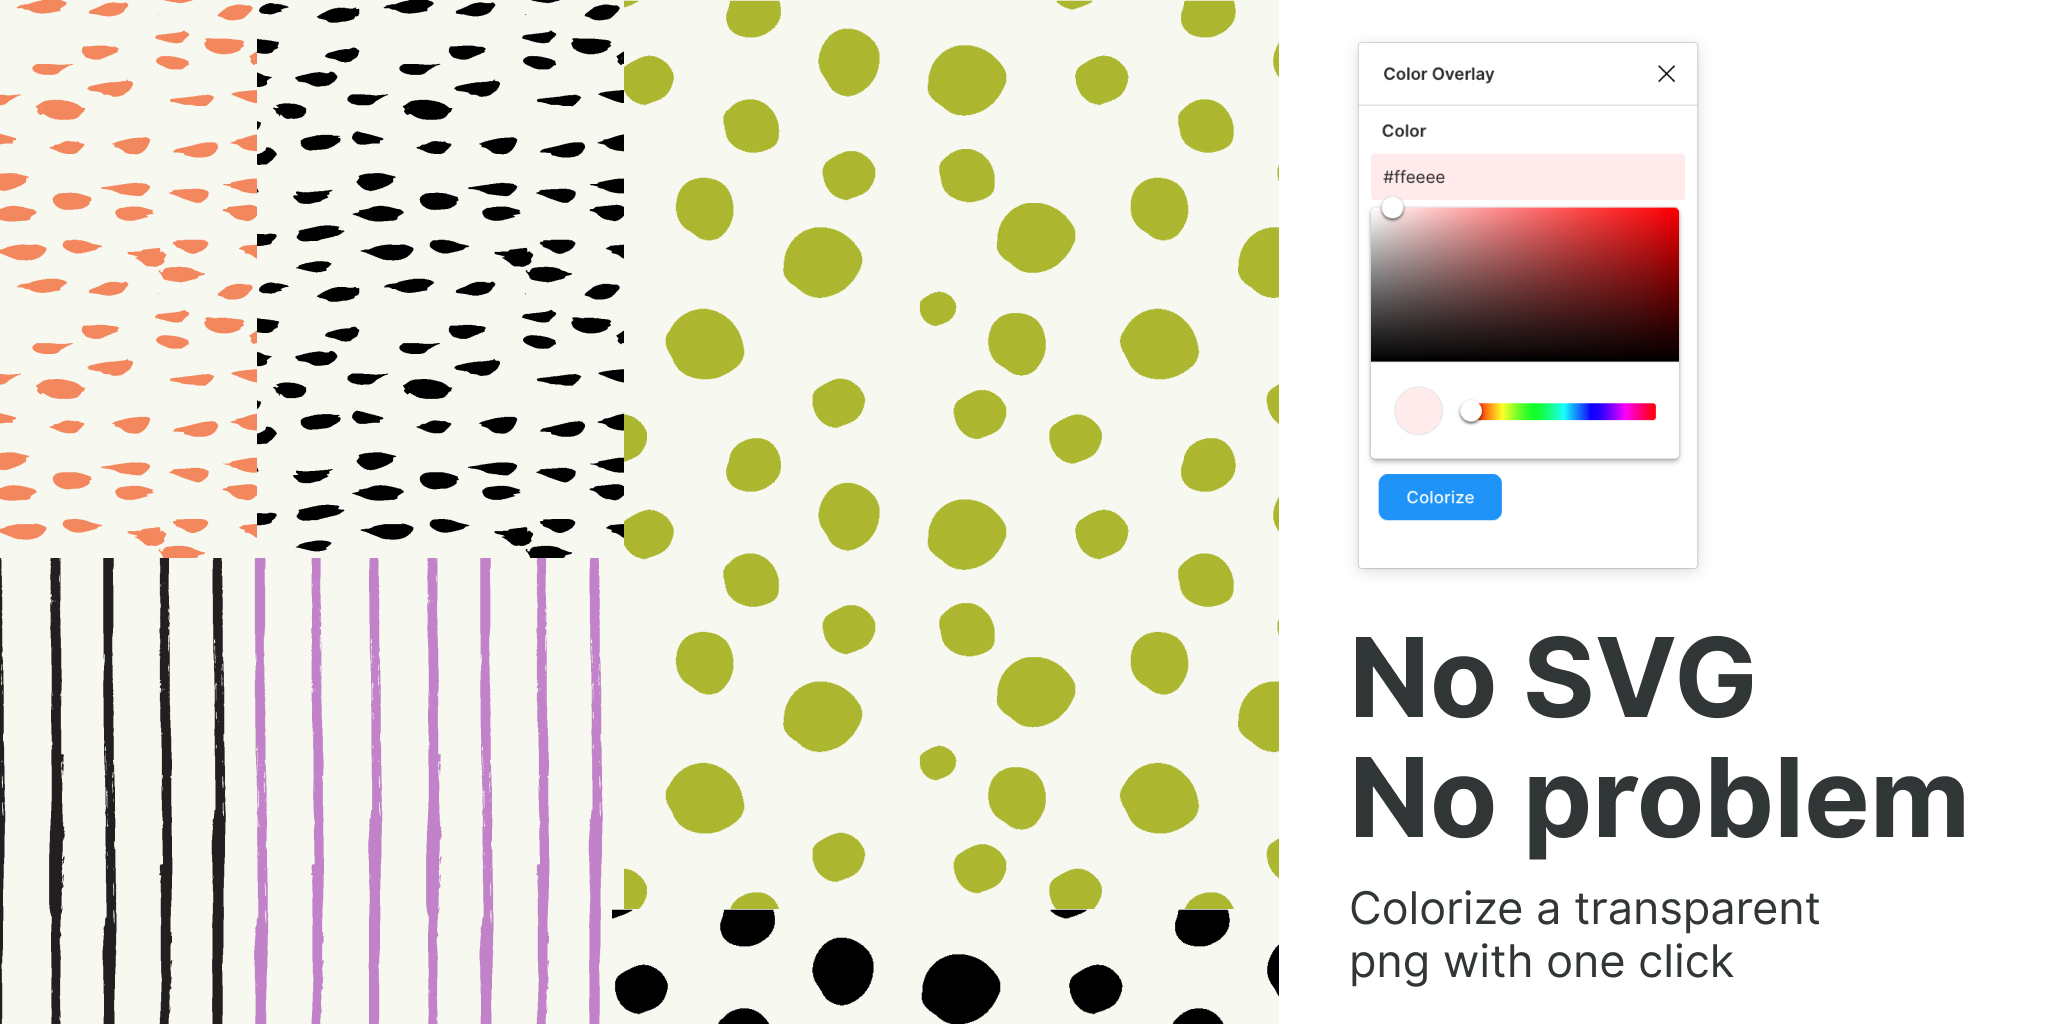
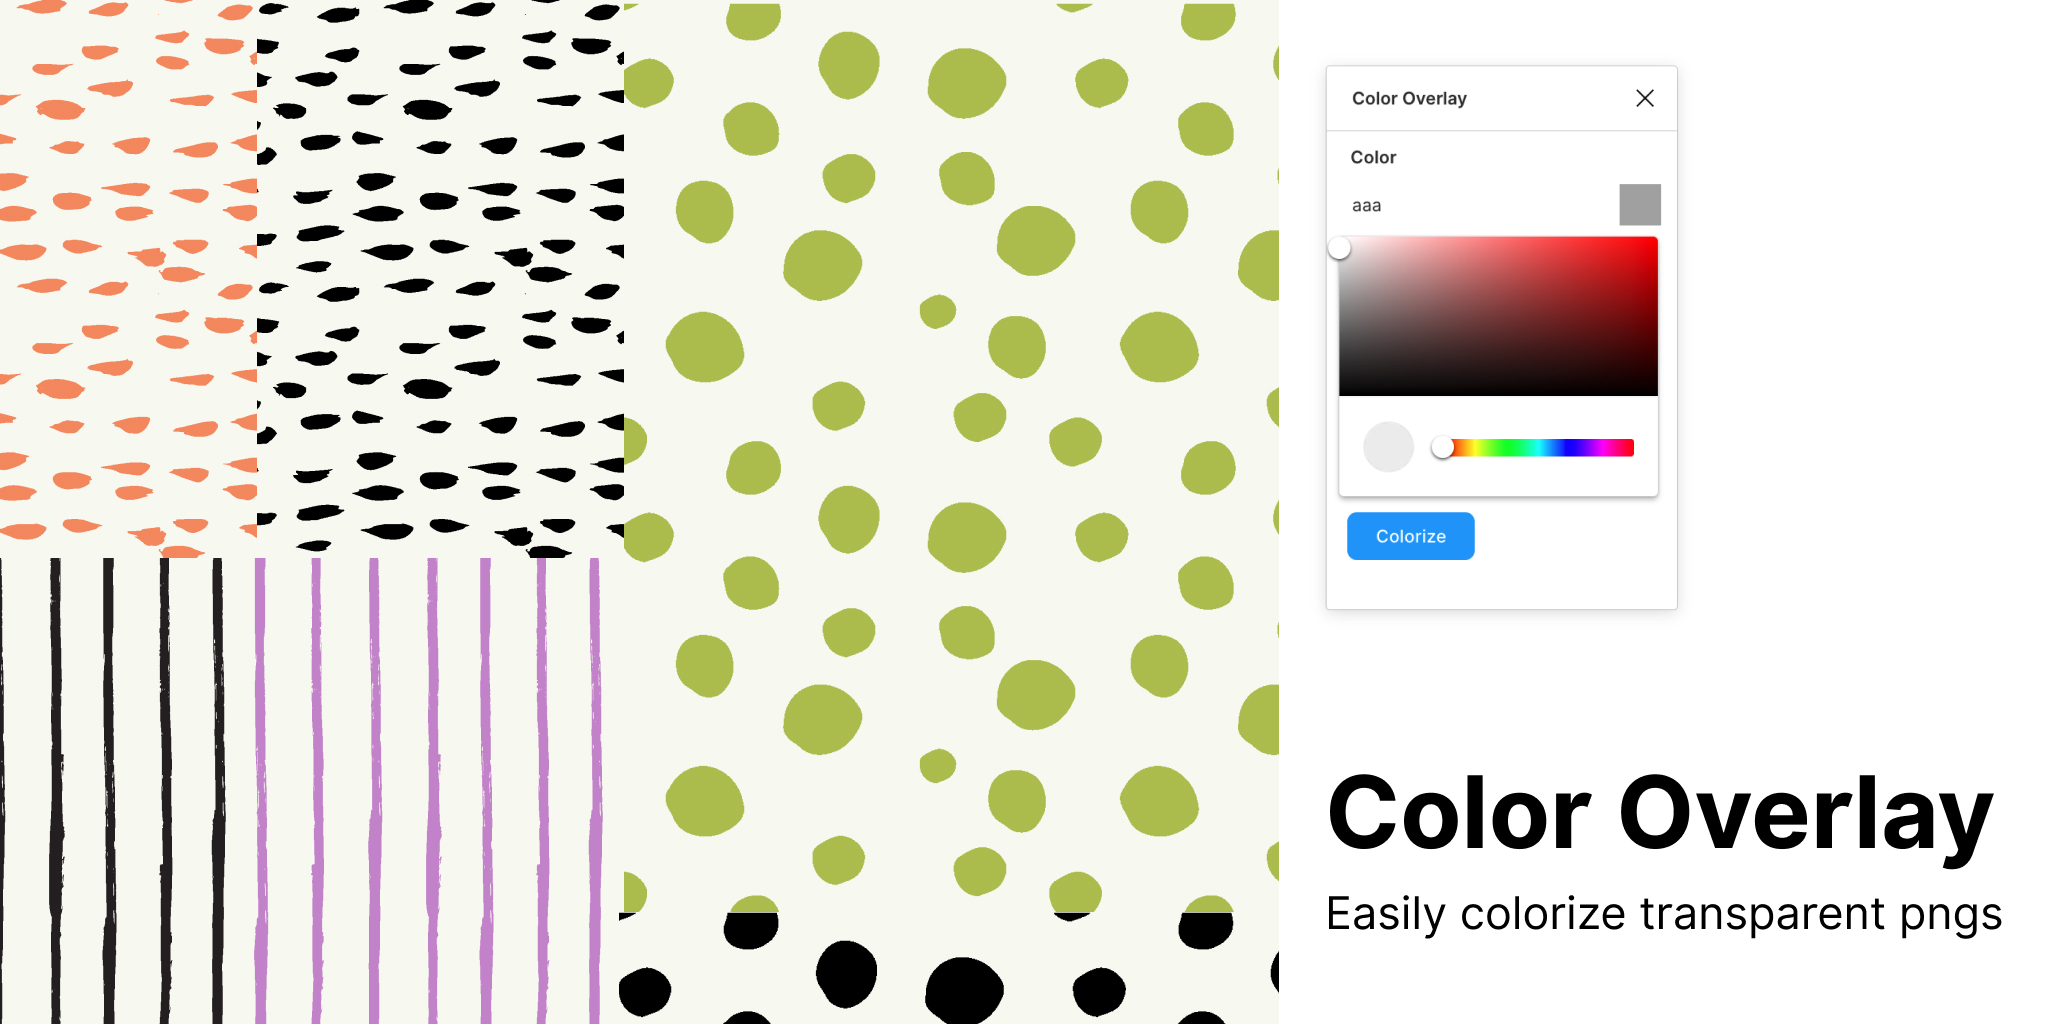
regex now checks hex shorthand from 3-6
picker also updates when hex is updated

diff --git a/code.ts b/code.ts
@@ -9,13 +9,23 @@ Utilities
 */
 //credit: https://stackoverflow.com/questions/5623838/rgb-to-hex-and-hex-to-rgb
 function hex2rgb(hex) {
+  hex = hex.replace("#", "");
+
+  if (hex.length === 4) {
+    var shorthandRegex = /^#?([a-f\d])([a-f\d])([a-f\d])([a-f\d])$/i;
+  } else if (hex.length === 5) {
+    var shorthandRegex = /^#?([a-f\d])([a-f\d])([a-f\d])([a-f\d])([a-f\d])$/i;
+  } else {
+    var shorthandRegex = /^#?([a-f\d])([a-f\d])([a-f\d])$/i;
+  }
+
   // Expand shorthand form (e.g. "03F") to full form (e.g. "0033FF")
-  var shorthandRegex = /^#?([a-f\d])([a-f\d])([a-f\d])$/i;
   hex = hex.replace(shorthandRegex, function (m, r, g, b) {
     return r + r + g + g + b + b;
   });
 
   var result = /^#?([a-f\d]{2})([a-f\d]{2})([a-f\d]{2})$/i.exec(hex);
+
   return result ? {
     r: parseInt(result[1], 16),
     g: parseInt(result[2], 16),

diff --git a/ui.html b/ui.html
@@ -160,7 +160,7 @@
 <div id="colorize">
   <div class="label">Color</div>
   <div id="wrapper">
-    <input type="text" id="new-color" class="input" value="#EEE" />
+    <input type="text" id="new-color" class="input" value="#000" />
     <div id="swatch"></div>
     <div id="color" class="picker" acp-show-rgb="no" acp-show-hsl="no" acp-show-hex="no" acp-show-alpha="no"
       acp-color="#EEE"></div>
@@ -229,8 +229,10 @@
   //update swatch when hex is changed
   function checkColor() {
     let color = newColor.value;
+    const picker = document.getElementsByClassName("picker");
     if (regEx.test(newColor.value) === true) {
       swatch.style.backgroundColor = color;
+      picker[0].setAttribute('acp-color', color);
     }
   }
   newColor.addEventListener('change', checkColor);

diff --git a/code.js b/code.js
@@ -17,8 +17,17 @@ Utilities
 */
 //credit: https://stackoverflow.com/questions/5623838/rgb-to-hex-and-hex-to-rgb
 function hex2rgb(hex) {
+    hex = hex.replace("#", "");
+    if (hex.length === 4) {
+        var shorthandRegex = /^#?([a-f\d])([a-f\d])([a-f\d])([a-f\d])$/i;
+    }
+    else if (hex.length === 5) {
+        var shorthandRegex = /^#?([a-f\d])([a-f\d])([a-f\d])([a-f\d])([a-f\d])$/i;
+    }
+    else {
+        var shorthandRegex = /^#?([a-f\d])([a-f\d])([a-f\d])$/i;
+    }
     // Expand shorthand form (e.g. "03F") to full form (e.g. "0033FF")
-    var shorthandRegex = /^#?([a-f\d])([a-f\d])([a-f\d])$/i;
     hex = hex.replace(shorthandRegex, function (m, r, g, b) {
         return r + r + g + g + b + b;
     });
